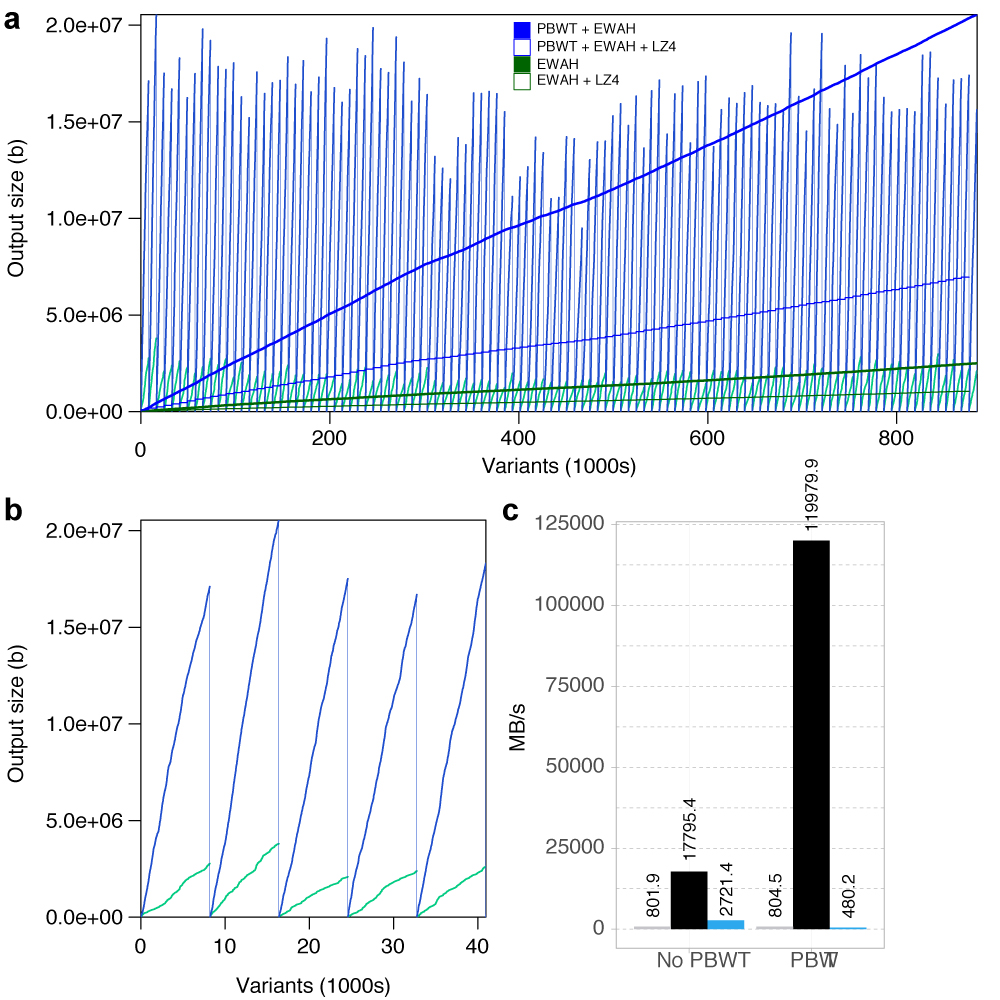
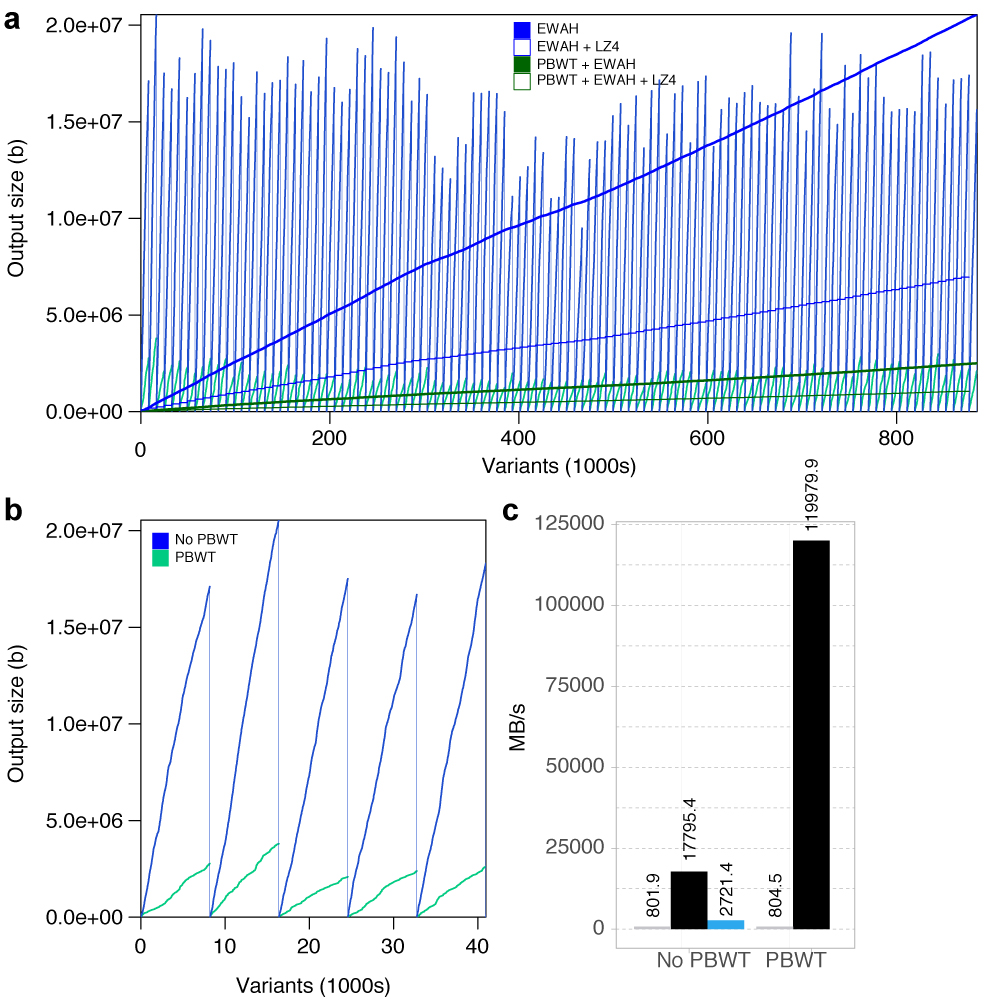
readme update

diff --git a/README.md b/README.md
@@ -29,6 +29,8 @@ Djinn can offer strong compression with slower decompression speeds using statis
 
 ![Compression Ratio](doc/images/djn_ewah_lz4.jpg "Djinn LZ4")
 
+Example analysis of HRC-chr20 dataset. a) Output Djinn blocks results in resetting the PBWT permutation order to circumvent storing the permutation array. Each cycle (spike) corresponds to an indenpendent data block with 8192 variants for either with PBWT (green) or without (blue). There is a considerable difference in compressibility and query speed between the two approaches: PBWT-based approaches consume less disk space require more CPU time to query and PBWT-free models require more disk space but is vastly faster to query. b) Zoom in for the first five Djinn blocks in a). c) PBWT-free models can achieve hundreds of gigabytes per second inflate speeds (in Vcf-space) when operating in EWAH-space.
+
 ### Building
 
 Building Djinn requires no additional packages. For full support, building requires [zstd](https://github.com/facebook/zstd) or [lz4](https://github.com/lz4/lz4). If you intend on using the optional support class `vcf_reader.h` for consuming `htslib`-based files then [htslib](https://github.com/samtools/htslib) is required. Build with autotools:
